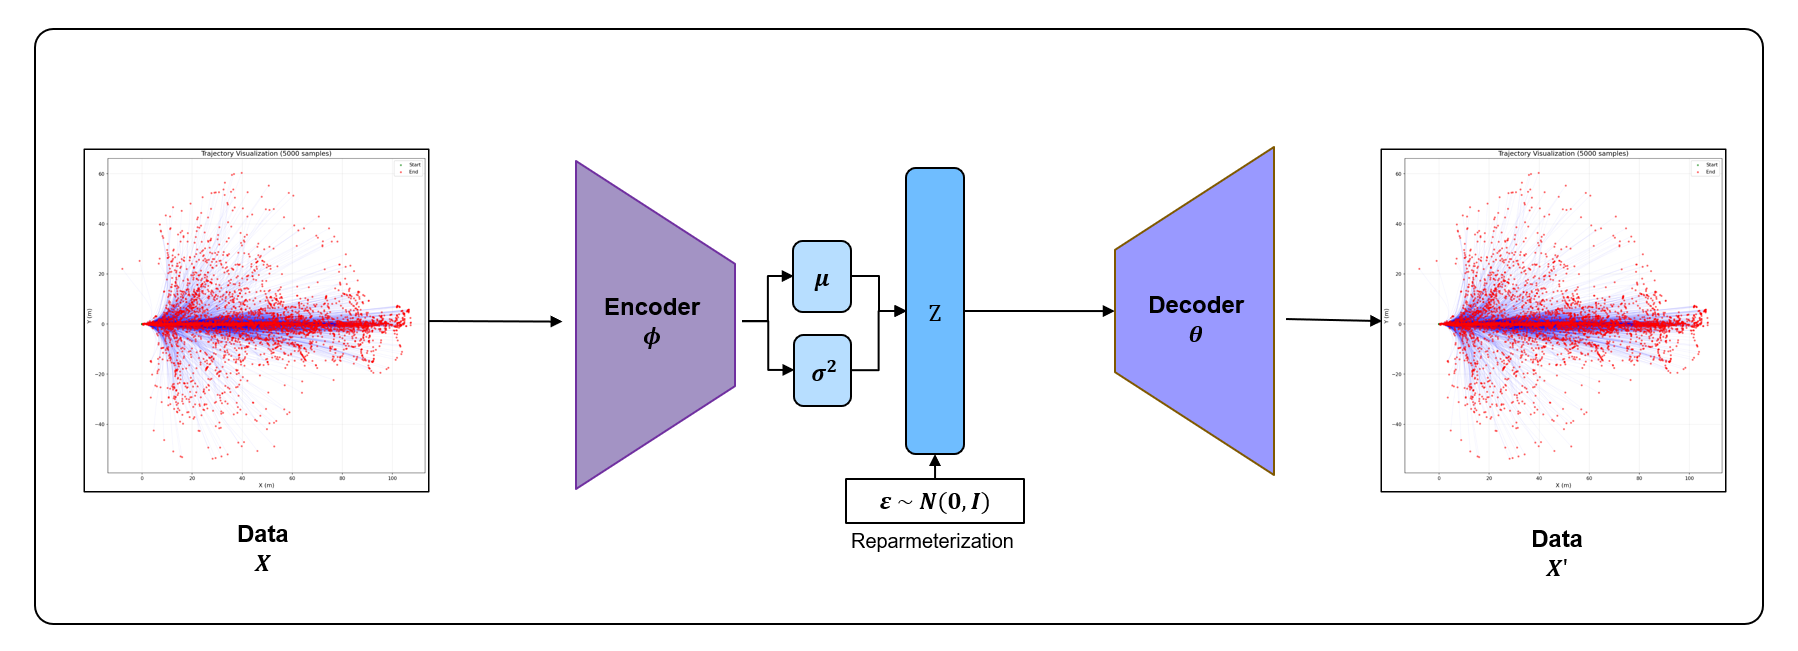
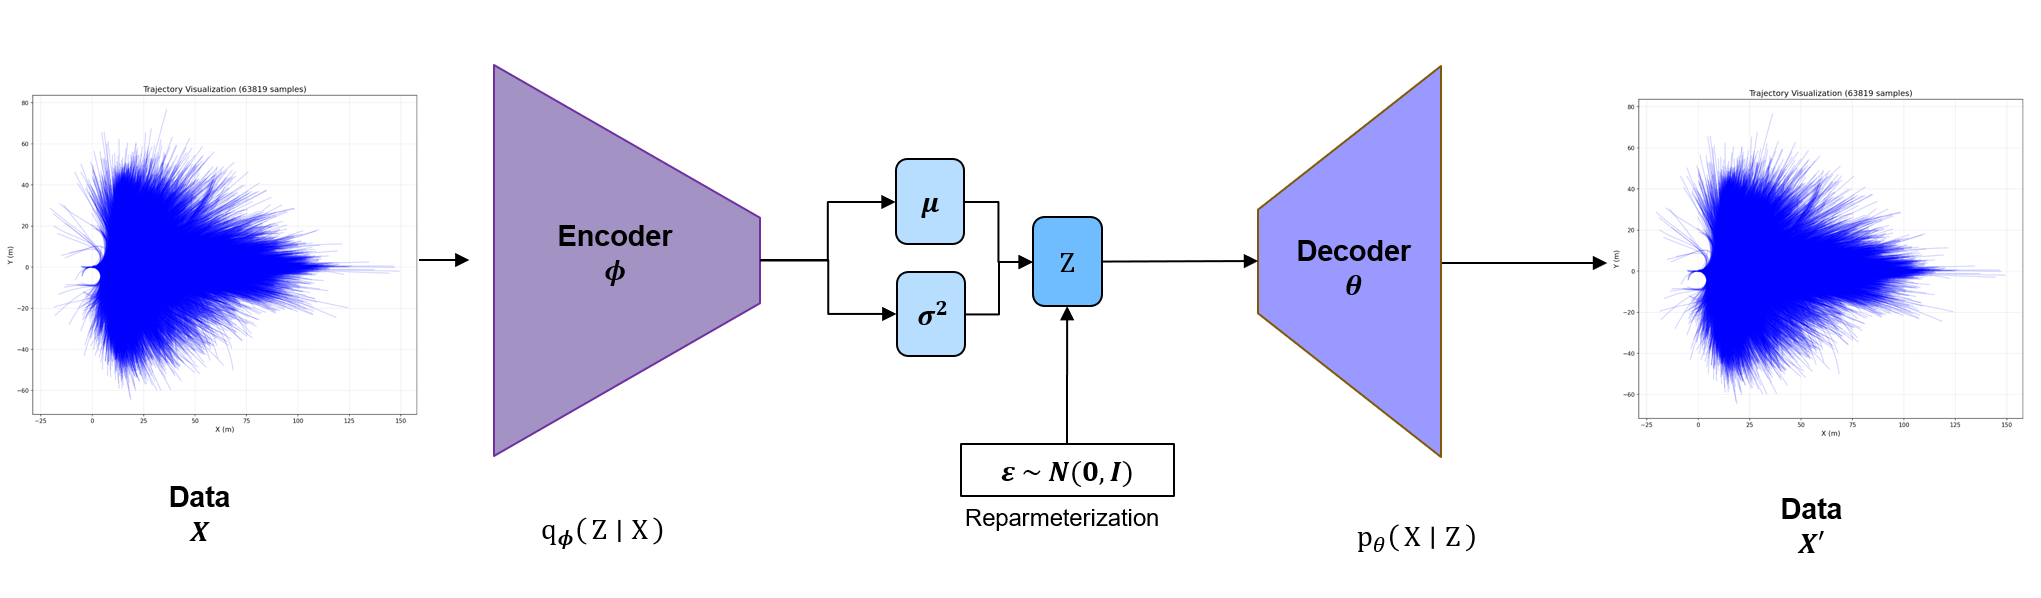
image updated

diff --git a/README.md b/README.md
@@ -133,6 +133,8 @@ chmod +x extract_8s_trajectories.sh
 
 추출된 데이터를 시각화하여 확인할 수 있습니다:
 
+![Input Data](assets/input_data.png)
+
 ```bash
 cd data
 ./visualize_trajectories.sh
@@ -356,7 +358,10 @@ VAE-Planner/
 │   └── start_server.sh           # 서버 시작 스크립트
 ├── assets/                       # 에셋 (이미지, gif)
 │   ├── model_architecture.png
-│   └── VAE_results_1.gif
+│   ├── VAE_results_1.gif
+│   ├── input_data.png            # 입력 데이터 시각화
+│   ├── pca.png                   # PCA 기반 latent space 시각화
+│   └── tsne.png                  # t-SNE 기반 latent space 시각화
 ├── requirements.txt              # 메인 Python 의존성
 └── README.md                     # 이 파일
 ```
@@ -379,6 +384,33 @@ VAE-Planner/
 - PCA를 사용하여 latent space를 2D로 projection
 - 카테고리별 경로 샘플 시각화
 
+#### PCA 기반 Latent Space 시각화
+
+![PCA Latent Space](assets/pca.png)
+
+PCA (Principal Component Analysis)를 사용하여 32차원 latent space를 2D로 투영한 결과입니다. 각 색상은 경로 분류를 나타냅니다.
+
+#### t-SNE 기반 Latent Space 시각화
+
+![t-SNE Latent Space](assets/tsne.png)
+
+t-SNE (t-Distributed Stochastic Neighbor Embedding)를 사용하여 latent space의 클러스터 구조를 시각화한 결과입니다. 유사한 경로 패턴이 가까이 모여 있는 것을 확인할 수 있습니다.
+
+### 분류 조건 설명
+
+경로는 다음과 같은 조건에 따라 분류됩니다:
+
+| 분류 | 조건 | 설명 |
+|------|------|------|
+| **Stop (정지)** | 경로 길이 < 2.0m | 시작점과 끝점 사이의 직선 거리가 2m 미만 |
+| **Straight (직진)** | -10° ≤ 각도 ≤ 10° | 시작점-끝점 각도가 거의 직진 |
+| **Straight(sharp) (급커브 직진)** | 직진 + 급커브 | 직진 방향이지만 평균 곡률 > 0.15 rad 또는 최대 곡률 > 0.3 rad |
+| **Straight(slow) (느린 직진)** | 직진 + 느린 속도 | 직진 방향이지만 평균 속도 < 5 m/s |
+| **Left Turn (좌회전)** | 각도 > 10° | 시작점-끝점 각도가 좌측 방향 |
+| **Left Turn(Slow) (느린 좌회전)** | 좌회전 + 느린 속도 | 좌회전 방향이지만 평균 속도 < 5 m/s |
+| **Right Turn (우회전)** | 각도 < -10° | 시작점-끝점 각도가 우측 방향 |
+| **Right Turn(Slow) (느린 우회전)** | 우회전 + 느린 속도 | 우회전 방향이지만 평균 속도 < 5 m/s |
+
 ## 📝 참고사항
 
 - 학습에 사용된 원본 경로는 `train_output/<experiment_name>/<timestamp>/original_trajectories.npz`에 저장됩니다
@@ -393,4 +425,3 @@ VAE-Planner/
 ## 🙏 감사의 말
 
 - nuPlan Dataset: [nuPlan-devkit](https://github.com/motional/nuplan-devkit)
-- 시각화 서버는 CVAE-Planner의 visualization_server를 참고하여 제작되었습니다
